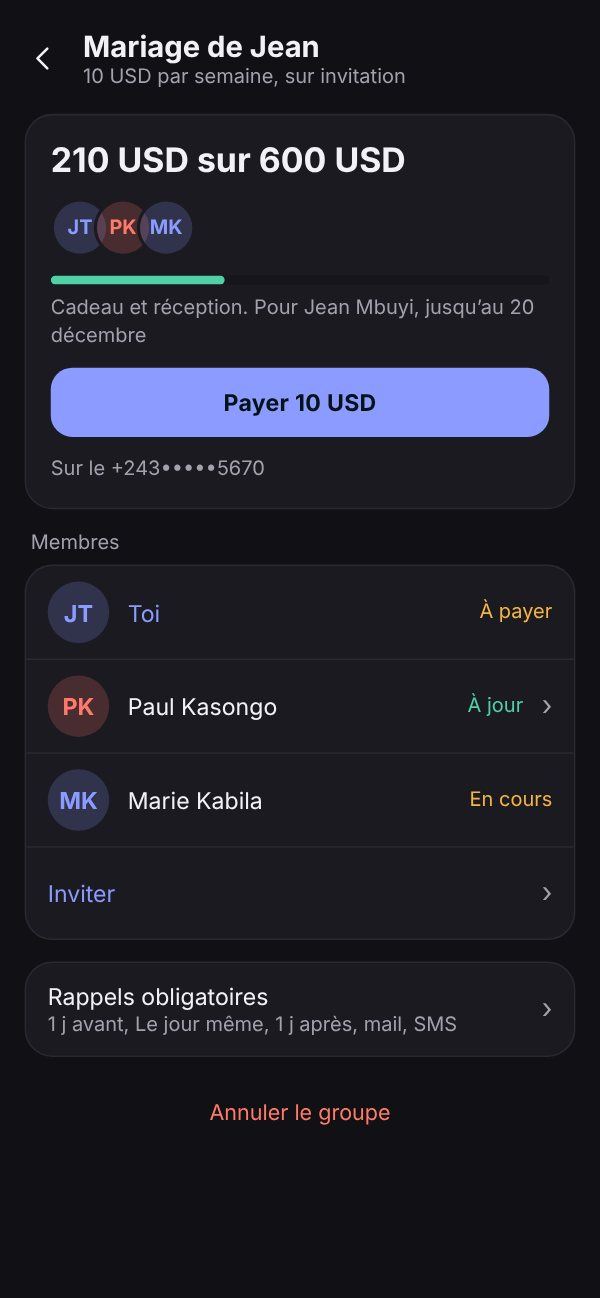
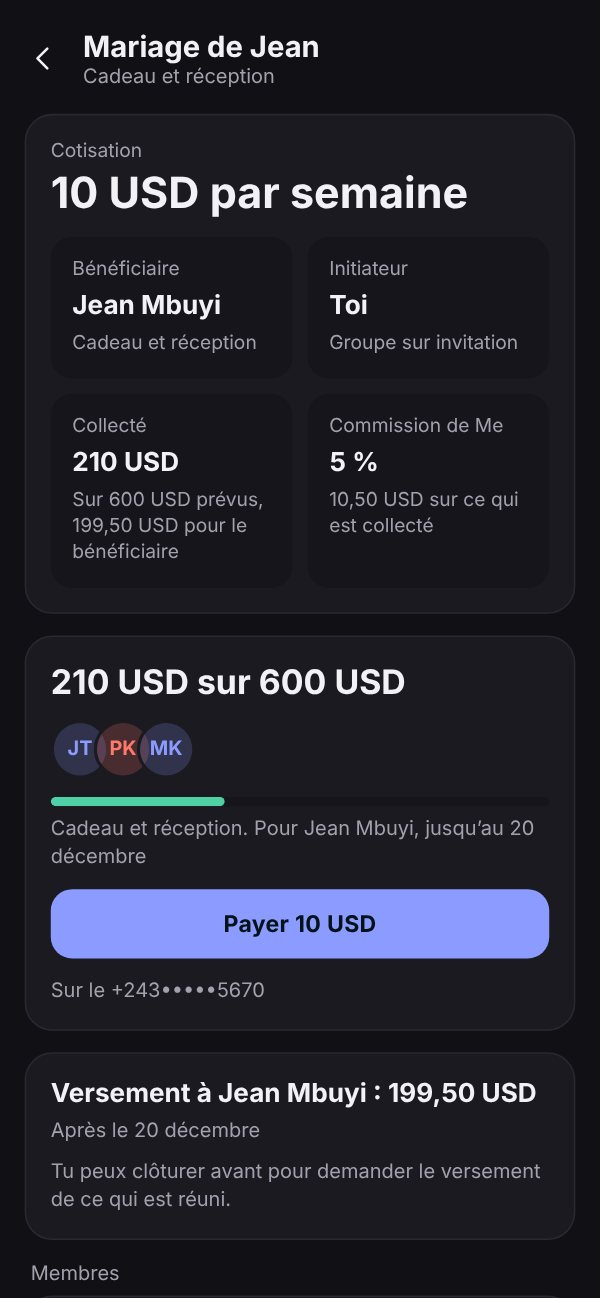
Accueil : refaire les captures de la section Cotisations
Claude-Session: https://claude.ai/code/session_01VX1iyCecytfQsykZwKLFr2

diff --git a/CHANGELOG.md b/CHANGELOG.md
@@ -5,6 +5,10 @@ Les plus récents sont en haut. Chaque ligne dit ce que ça change pour l'utilis
 
 ## 17 novembre 2026
 
+### Page d'accueil : les captures des cotisations refaites
+
+Les deux téléphones de la section « Cotisez ensemble » montraient un écran à moitié vide, et les trois cartes du dessous coupaient leurs phrases en plein milieu. Elles sont reprises : écran plein pour les téléphones (le groupe, qui reçoit, qui a cotisé, le bouton pour payer), et un bloc entier et net pour chaque carte (l'annuaire, la caution et les rappels, le récapitulatif avec la commission).
+
 ### Le thème ne s'arrête plus aux bords de l'app
 
 Sur ordinateur, les ascenseurs, les champs du navigateur et la sélection de texte suivent maintenant le thème choisi : plus de barres grises claires sur un fond sombre. Le survol d'un mail, d'une ligne ou d'un bouton se voit, le texte est plus net, et la touche Tab laisse un anneau bien visible pour ceux qui naviguent au clavier. Qui demande moins d'animations dans son système n'en reçoit plus.
